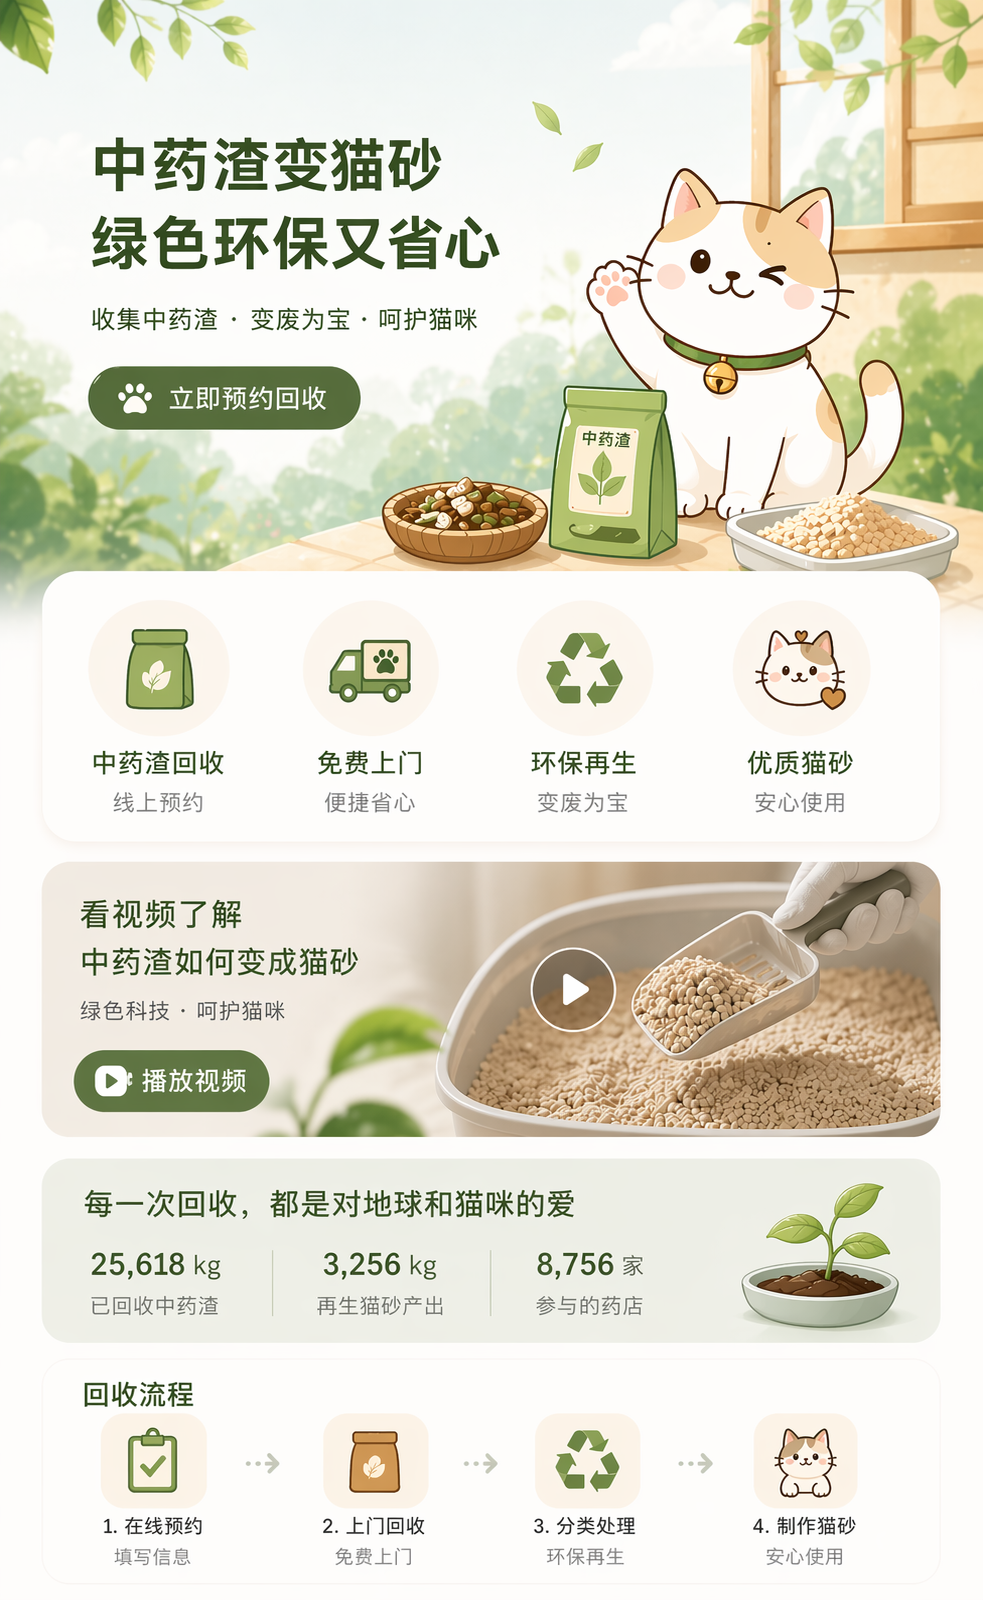
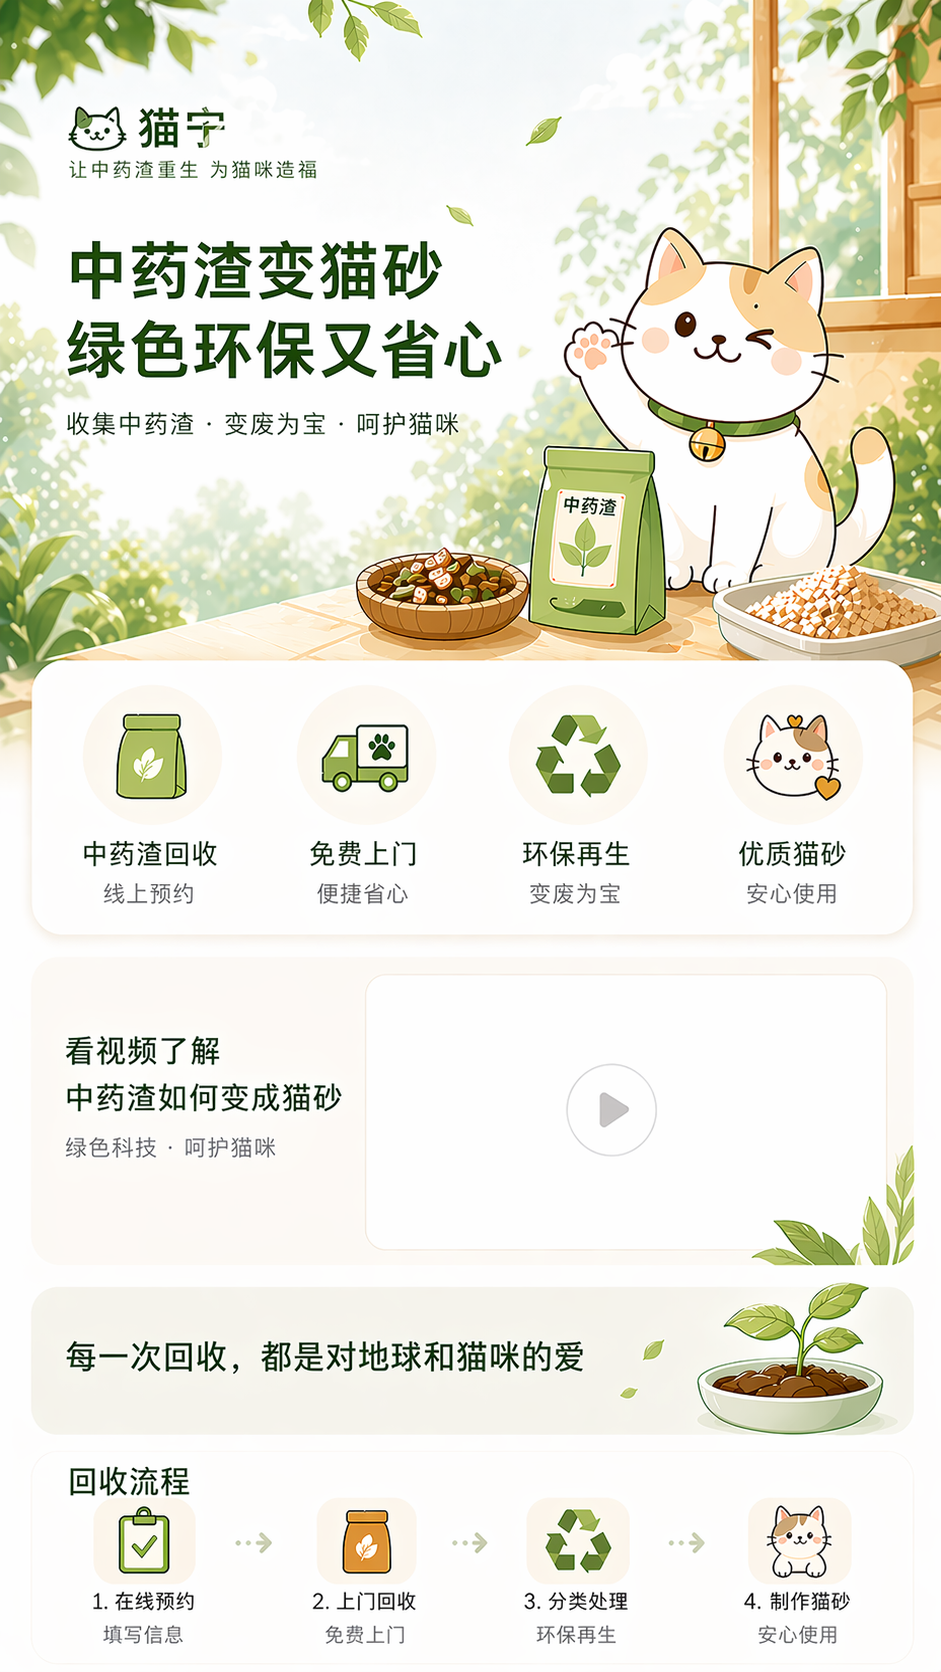
fix: make homepage full screen static background

diff --git a/pages/index/index.js b/pages/index/index.js
@@ -1,4 +1,4 @@
-const { asset, request } = require('../../utils/request');
+const { asset } = require('../../utils/request');
 
 Page({
   data: {
@@ -9,57 +9,6 @@ Page({
       { id: 3, title: '宣传视频四', src: asset('/public-assets/cat-video/video_4.mp4') },
     ],
     currentVideoIndex: 0,
-    stats: {
-      recycledWeight: '0.00',
-      catLitterOutput: '0',
-      pharmacyCount: '0',
-    },
-  },
-
-  onLoad() {
-    this.loadHomepageStats();
-  },
-
-  onPullDownRefresh() {
-    this.loadHomepageStats(() => {
-      wx.stopPullDownRefresh();
-    });
-  },
-
-  loadHomepageStats(callback) {
-    Promise.all([
-      request({
-        url: '/api/recycle_summary',
-        method: 'GET',
-      }),
-      request({
-        url: '/api/maoning_maosha/products',
-        method: 'GET',
-      }),
-    ]).then(([summaryRes, productRes]) => {
-      const summaryList = (summaryRes.data && summaryRes.data.data) || [];
-      const products = Array.isArray(productRes.data) ? productRes.data : [];
-      const recycledWeight = summaryList.reduce((sum, item) => {
-        return sum + Number(item.total_weight || 0);
-      }, 0);
-      const pharmacyCount = new Set(
-        summaryList
-          .filter((item) => item.type === 'company')
-          .map((item) => `${item.name}-${item.address}`)
-      ).size;
-
-      this.setData({
-        stats: {
-          recycledWeight: recycledWeight.toFixed(2),
-          catLitterOutput: String(products.length),
-          pharmacyCount: String(pharmacyCount),
-        },
-      });
-    }).catch(() => {
-      wx.showToast({ title: '首页数据加载失败', icon: 'none' });
-    }).finally(() => {
-      if (callback) callback();
-    });
   },
 
   selectVideo(e) {
